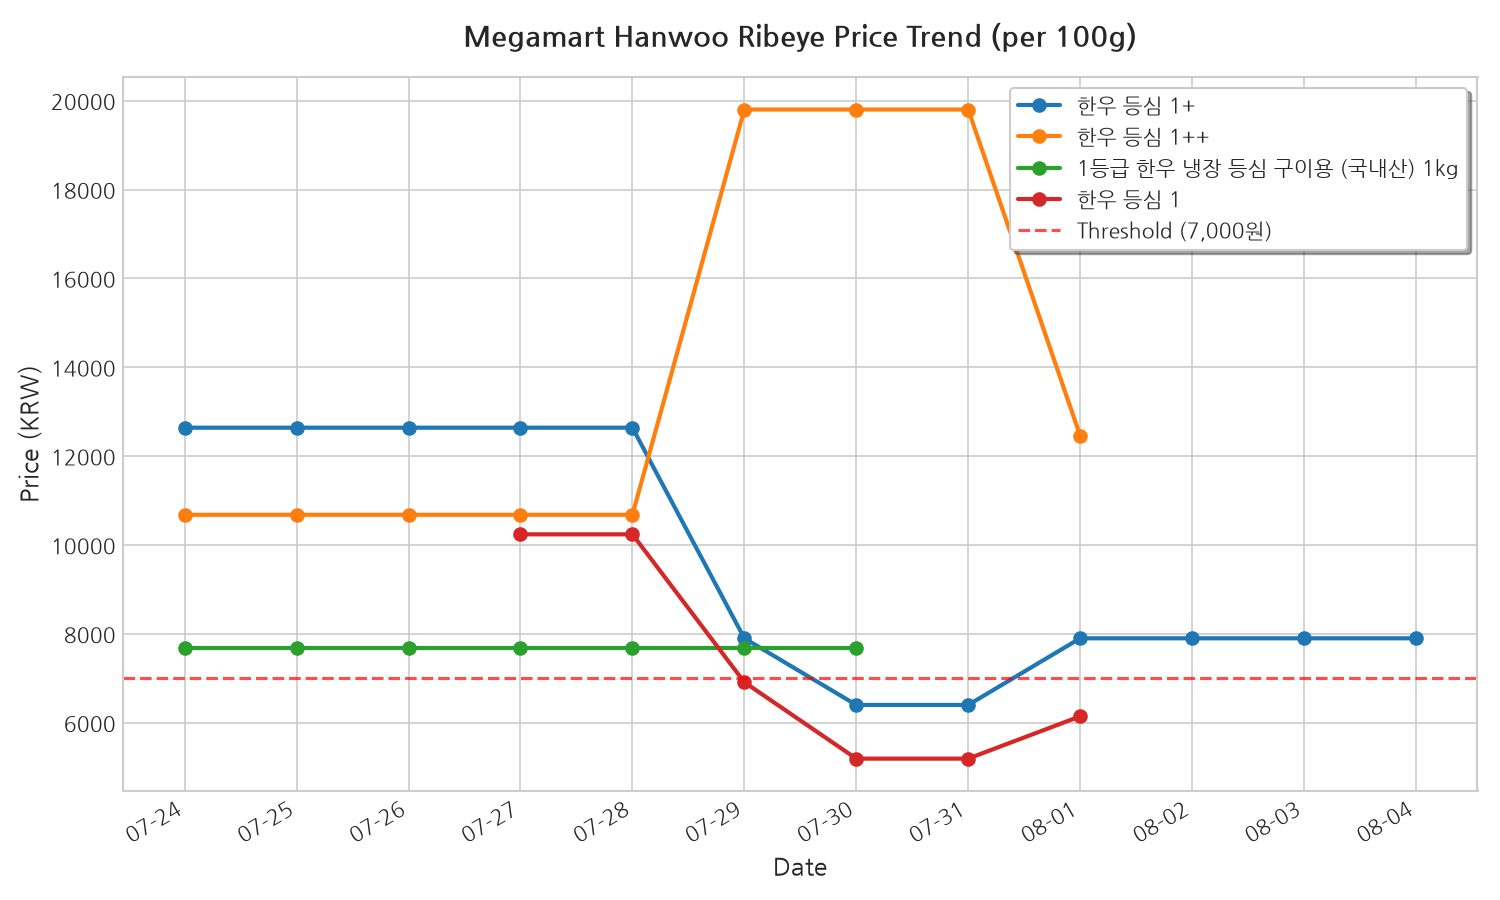
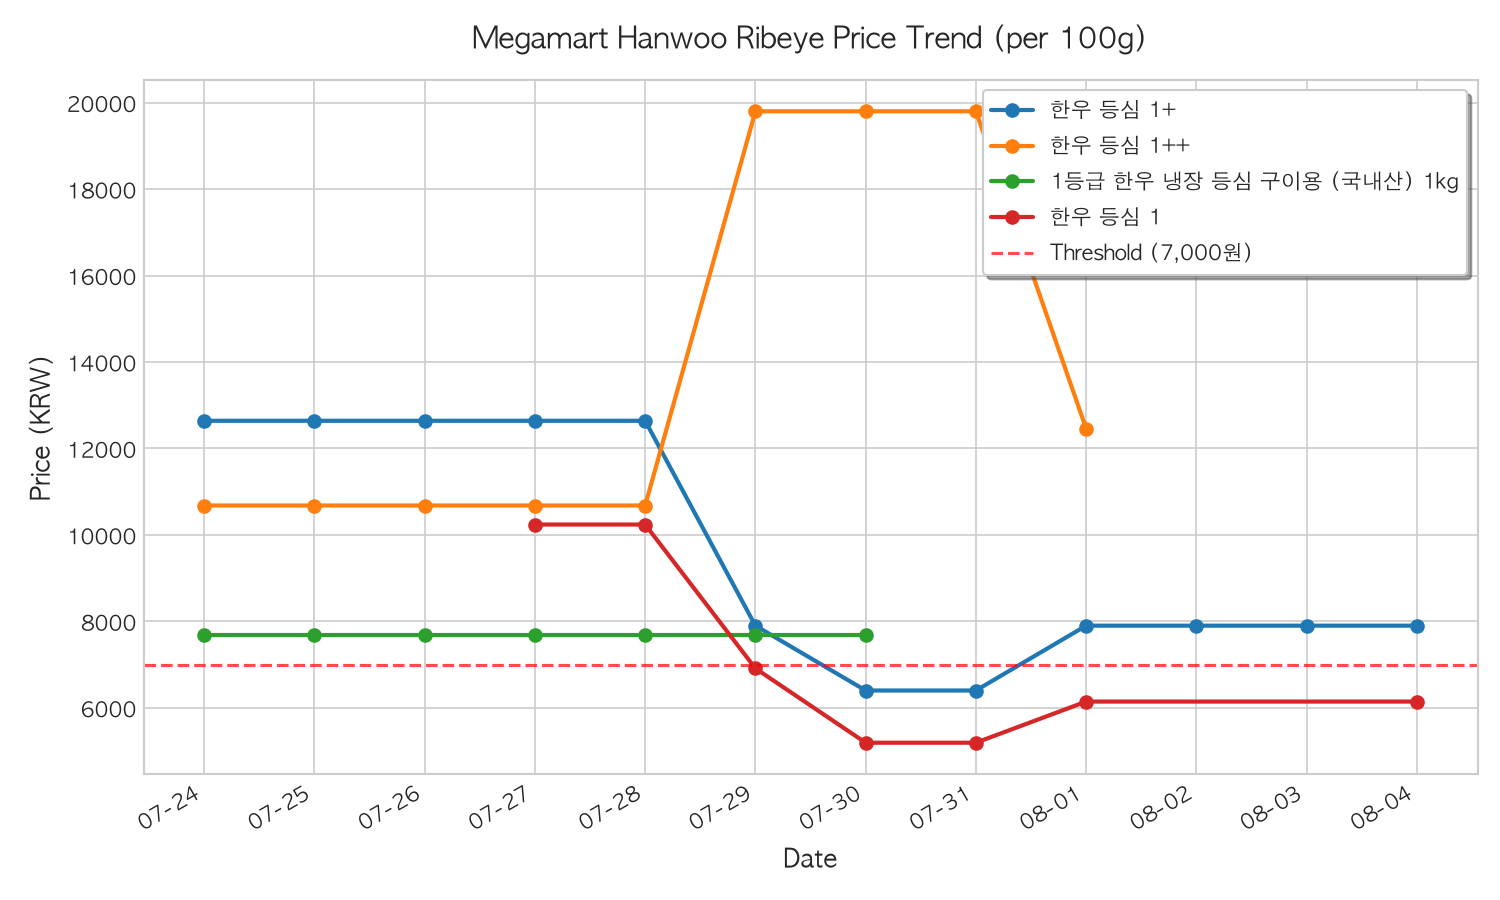
feat: include steak cuts in Megamart price checker and normalize titles for database consistency

diff --git a/dashboard.html b/dashboard.html
@@ -195,7 +195,7 @@
 
     <script>
         // Data injected by python script
-        const PRICE_DATA = [{"date": "2026-07-24", "product_name": "한우 등심 1+등급 구이용 (국내산) 100g", "price": 12640}, {"date": "2026-07-24", "product_name": "한우 등심 1++등급 구이용 (국내산) 100g", "price": 10680}, {"date": "2026-07-24", "product_name": "1등급 한우 냉장 등심 구이용 (국내산) 1kg", "price": 7680}, {"date": "2026-07-25", "product_name": "한우 등심 1+등급 구이용 (국내산) 100g", "price": 12640}, {"date": "2026-07-25", "product_name": "한우 등심 1++등급 구이용 (국내산) 100g", "price": 10680}, {"date": "2026-07-25", "product_name": "1등급 한우 냉장 등심 구이용 (국내산) 1kg", "price": 7680}, {"date": "2026-07-26", "product_name": "한우 등심 1+등급 구이용 (국내산) 100g", "price": 12640}, {"date": "2026-07-26", "product_name": "한우 등심 1++등급 구이용 (국내산) 100g", "price": 10680}, {"date": "2026-07-26", "product_name": "1등급 한우 냉장 등심 구이용 (국내산) 1kg", "price": 7680}, {"date": "2026-07-27", "product_name": "한우 등심 1+등급 구이용 (국내산) 100g", "price": 12640}, {"date": "2026-07-27", "product_name": "한우 등심 1++등급 구이용 (국내산) 100g", "price": 10680}, {"date": "2026-07-27", "product_name": "1등급 한우 냉장 등심 구이용 (국내산) 1kg", "price": 7680}, {"date": "2026-07-27", "product_name": "한우 등심 1등급 구이용 (국내산) 100g", "price": 10240}, {"date": "2026-07-28", "product_name": "한우 등심 1등급 구이용 (국내산) 100g", "price": 10240}, {"date": "2026-07-28", "product_name": "한우 등심 1+등급 구이용 (국내산) 100g", "price": 12640}, {"date": "2026-07-28", "product_name": "한우 등심 1++등급 구이용 (국내산) 100g", "price": 10680}, {"date": "2026-07-28", "product_name": "1등급 한우 냉장 등심 구이용 (국내산) 1kg", "price": 7680}, {"date": "2026-07-29", "product_name": "한우 등심 1등급 구이용 (국내산) 100g", "price": 6912}, {"date": "2026-07-29", "product_name": "한우 등심 1+등급 구이용 (국내산) 100g", "price": 7900}, {"date": "2026-07-29", "product_name": "한우 등심 1++등급 구이용 (국내산) 100g", "price": 19800}, {"date": "2026-07-29", "product_name": "1등급 한우 냉장 등심 구이용 (국내산) 1kg", "price": 7680}, {"date": "2026-07-30", "product_name": "한우 등심 1++등급 구이용 (국내산) 100g", "price": 19800}, {"date": "2026-07-30", "product_name": "1등급 한우 냉장 등심 구이용 (국내산) 1kg", "price": 7680}, {"date": "2026-07-30", "product_name": "한우 등심 1등급 구이용 (국내산) 100g", "price": 5192}, {"date": "2026-07-30", "product_name": "한우 등심 1+등급 구이용 (국내산) 100g", "price": 6400}, {"date": "2026-07-31", "product_name": "한우 등심 1등급 구이용 (국내산) 100g", "price": 5192}, {"date": "2026-07-31", "product_name": "한우 등심 1+등급 구이용 (국내산) 100g", "price": 6400}, {"date": "2026-07-31", "product_name": "한우 등심 1++등급 구이용 (국내산) 100g", "price": 19800}, {"date": "2026-08-01", "product_name": "한우 등심 1등급 구이용 (국내산) 100g", "price": 6144}, {"date": "2026-08-01", "product_name": "한우 등심 1+등급 구이용 (국내산) 100g", "price": 7900}, {"date": "2026-08-01", "product_name": "한우 등심 1++등급 구이용 (국내산) 100g", "price": 12460}, {"date": "2026-08-02", "product_name": "한우 등심 1+등급 구이용 (국내산) 100g", "price": 7900}, {"date": "2026-08-03", "product_name": "한우 등심 1+등급 구이용 (국내산) 100g", "price": 7900}, {"date": "2026-08-04", "product_name": "한우 등심 1+등급 구이용 (국내산) 100g", "price": 7900}];
+        const PRICE_DATA = [{"date": "2026-07-24", "product_name": "한우 등심 1+등급 구이용 (국내산) 100g", "price": 12640}, {"date": "2026-07-24", "product_name": "한우 등심 1++등급 구이용 (국내산) 100g", "price": 10680}, {"date": "2026-07-24", "product_name": "1등급 한우 냉장 등심 구이용 (국내산) 1kg", "price": 7680}, {"date": "2026-07-25", "product_name": "한우 등심 1+등급 구이용 (국내산) 100g", "price": 12640}, {"date": "2026-07-25", "product_name": "한우 등심 1++등급 구이용 (국내산) 100g", "price": 10680}, {"date": "2026-07-25", "product_name": "1등급 한우 냉장 등심 구이용 (국내산) 1kg", "price": 7680}, {"date": "2026-07-26", "product_name": "한우 등심 1+등급 구이용 (국내산) 100g", "price": 12640}, {"date": "2026-07-26", "product_name": "한우 등심 1++등급 구이용 (국내산) 100g", "price": 10680}, {"date": "2026-07-26", "product_name": "1등급 한우 냉장 등심 구이용 (국내산) 1kg", "price": 7680}, {"date": "2026-07-27", "product_name": "한우 등심 1+등급 구이용 (국내산) 100g", "price": 12640}, {"date": "2026-07-27", "product_name": "한우 등심 1++등급 구이용 (국내산) 100g", "price": 10680}, {"date": "2026-07-27", "product_name": "1등급 한우 냉장 등심 구이용 (국내산) 1kg", "price": 7680}, {"date": "2026-07-27", "product_name": "한우 등심 1등급 구이용 (국내산) 100g", "price": 10240}, {"date": "2026-07-28", "product_name": "한우 등심 1등급 구이용 (국내산) 100g", "price": 10240}, {"date": "2026-07-28", "product_name": "한우 등심 1+등급 구이용 (국내산) 100g", "price": 12640}, {"date": "2026-07-28", "product_name": "한우 등심 1++등급 구이용 (국내산) 100g", "price": 10680}, {"date": "2026-07-28", "product_name": "1등급 한우 냉장 등심 구이용 (국내산) 1kg", "price": 7680}, {"date": "2026-07-29", "product_name": "한우 등심 1등급 구이용 (국내산) 100g", "price": 6912}, {"date": "2026-07-29", "product_name": "한우 등심 1+등급 구이용 (국내산) 100g", "price": 7900}, {"date": "2026-07-29", "product_name": "한우 등심 1++등급 구이용 (국내산) 100g", "price": 19800}, {"date": "2026-07-29", "product_name": "1등급 한우 냉장 등심 구이용 (국내산) 1kg", "price": 7680}, {"date": "2026-07-30", "product_name": "한우 등심 1++등급 구이용 (국내산) 100g", "price": 19800}, {"date": "2026-07-30", "product_name": "1등급 한우 냉장 등심 구이용 (국내산) 1kg", "price": 7680}, {"date": "2026-07-30", "product_name": "한우 등심 1등급 구이용 (국내산) 100g", "price": 5192}, {"date": "2026-07-30", "product_name": "한우 등심 1+등급 구이용 (국내산) 100g", "price": 6400}, {"date": "2026-07-31", "product_name": "한우 등심 1등급 구이용 (국내산) 100g", "price": 5192}, {"date": "2026-07-31", "product_name": "한우 등심 1+등급 구이용 (국내산) 100g", "price": 6400}, {"date": "2026-07-31", "product_name": "한우 등심 1++등급 구이용 (국내산) 100g", "price": 19800}, {"date": "2026-08-01", "product_name": "한우 등심 1등급 구이용 (국내산) 100g", "price": 6144}, {"date": "2026-08-01", "product_name": "한우 등심 1+등급 구이용 (국내산) 100g", "price": 7900}, {"date": "2026-08-01", "product_name": "한우 등심 1++등급 구이용 (국내산) 100g", "price": 12460}, {"date": "2026-08-02", "product_name": "한우 등심 1+등급 구이용 (국내산) 100g", "price": 7900}, {"date": "2026-08-03", "product_name": "한우 등심 1+등급 구이용 (국내산) 100g", "price": 7900}, {"date": "2026-08-04", "product_name": "한우 등심 1+등급 구이용 (국내산) 100g", "price": 7900}, {"date": "2026-08-04", "product_name": "한우 등심 1등급 구이용 (국내산) 100g", "price": 6144}];
 
         // Group data by product
         const products = [...new Set(PRICE_DATA.map(item => item.product_name))];

diff --git a/megamart_checker.py b/megamart_checker.py
@@ -794,6 +794,28 @@ def generate_price_table_text():
             
     return "\n".join(output_lines)
 
+def normalize_product_title(title_text):
+    # Determine grade
+    if "1++" in title_text:
+        grade = "1++등급"
+    elif "1+" in title_text:
+        grade = "1+등급"
+    elif "1등급" in title_text or "1 등급" in title_text:
+        grade = "1등급"
+    else:
+        grade = None
+        
+    # Determine weight
+    is_1kg = "1kg" in title_text.lower() or "1 kg" in title_text.lower() or "1000g" in title_text.lower()
+    
+    if grade:
+        if is_1kg and grade == "1등급":
+            return '1등급 한우 냉장 등심 구이용 (국내산) 1kg'
+        else:
+            return f'한우 등심 {grade} 구이용 (국내산) 100g'
+            
+    return title_text
+
 def check_megamart_prices(driver, dry_run=False):
     logging.info(f"Navigating to Megamart Search: {SEARCH_URL}")
     driver.get(SEARCH_URL)
@@ -823,8 +845,11 @@ def check_megamart_prices(driver, dry_run=False):
                 continue
             title_text = title_els[0].text.strip()
             
-            # Filter condition: must contain both "한우" and "등심", and "구이용"
-            if "한우" in title_text and "등심" in title_text and "구이용" in title_text:
+            # Filter condition: must contain both "한우" and "등심", and either "구이용" or "스테이크용"
+            if "한우" in title_text and "등심" in title_text and ("구이용" in title_text or "스테이크용" in title_text):
+                # Normalize title to standard form for database consistency
+                normalized_title = normalize_product_title(title_text)
+                
                 # Find price
                 price_els = item.find_elements(By.CSS_SELECTOR, ".current-price .number")
                 if not price_els:
@@ -835,7 +860,6 @@ def check_megamart_prices(driver, dry_run=False):
                 price_value = int(re.sub(r"[^\d]", "", price_text))
                 
                 # Parse weight from title to calculate price per 100g
-                # Examples: "100g", "1kg", "1 kg", "600g"
                 weight = 100 # default fallback
                 weight_match = re.search(r"(\d+)\s*(g|kg)", title_text.lower())
                 if weight_match:
@@ -849,13 +873,13 @@ def check_megamart_prices(driver, dry_run=False):
                 # Calculate price per 100g
                 price_per_100g = int((price_value / weight) * 100)
                 
-                # Store (title, price_per_100g, actual_price, weight)
-                monitored_products.append((title_text, price_per_100g, price_value, weight))
-                logging.info(f"Monitored item: '{title_text}' -> {price_value:,}원 ({weight}g) | 100g당 {price_per_100g:,}원")
+                # Store (normalized_title, price_per_100g, actual_price, weight)
+                monitored_products.append((normalized_title, price_per_100g, price_value, weight))
+                logging.info(f"Monitored item: '{title_text}' (normalized: '{normalized_title}') -> {price_value:,}원 ({weight}g) | 100g당 {price_per_100g:,}원")
                 
                 # Check threshold (<= 7000 KRW/100g)
                 if price_per_100g <= PRICE_THRESHOLD:
-                    cheap_products.append((title_text, price_per_100g, price_value, weight))
+                    cheap_products.append((normalized_title, price_per_100g, price_value, weight))
                     
         except Exception as item_err:
             logging.error(f"Error parsing item card: {item_err}")

diff --git a/README.md b/README.md
@@ -9,6 +9,8 @@
 
 ### 📌 최근 수집된 가격
 - **한우 등심 1+등급 구이용 (국내산) 100g**: 100g당 7,900원 (현재 판매가: 7,900원/100g) (업데이트: 2026-08-04)
+- **한우 등심 1등급 구이용 (국내산) 100g**: 100g당 6,144원 (현재 판매가: 6,144원/100g) (업데이트: 2026-08-04)
+- **한우 등심 1+등급 구이용 (국내산) 100g**: 100g당 7,900원 (현재 판매가: 7,900원/100g) (업데이트: 2026-08-04)
 
 ### 📈 가격 추이 그래프
 ![한우 등심 가격 추이](history/price_trend.png)
